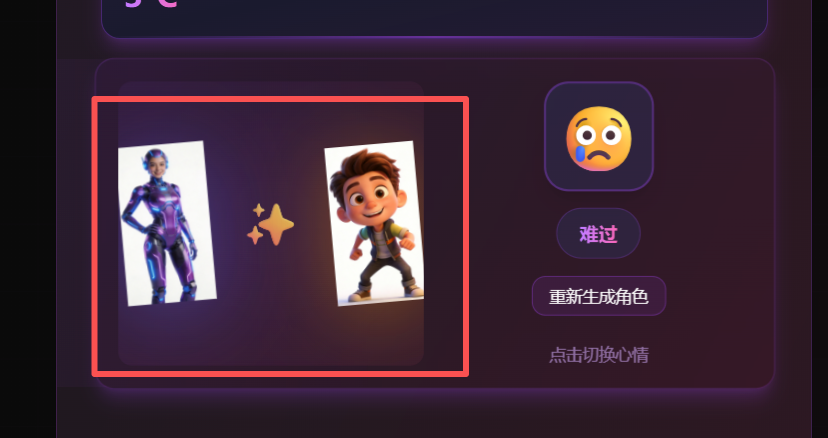
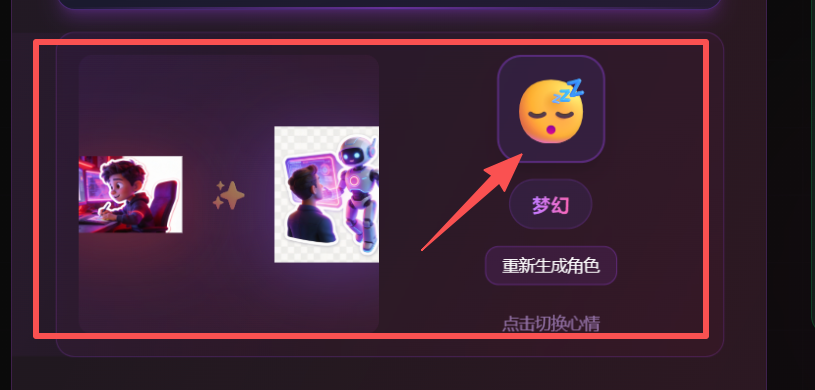
fix: 移除角色图像背景混合模式，改为无背景3D角色显示

diff --git a/src/app/api/generate-characters/route.ts b/src/app/api/generate-characters/route.ts
@@ -27,11 +27,11 @@ export async function POST(request: NextRequest) {
     const config = new Config();
     const client = new ImageGenerationClient(config);
 
-    // 生成AIGC创作者小男孩图像 - 办公室创作场景
-    const boyPrompt = `A cute Pixar 3D style boy character working at a modern creative studio desk with a computer, focused and passionate expression, creating digital art, red and purple neon color scheme, cyberpunk aesthetic, wearing modern casual clothes, creative workspace setup with glowing screens, high-quality 3D render, stylized sticker design, isolated on transparent background, 4K ultra HD resolution, PNG format`;
+    // 生成AIGC创作者小男孩图像 - 无背景3D角色
+    const boyPrompt = `A cute Pixar 3D style boy character, full body standing pose, wearing modern casual clothes, focused and passionate expression, creating digital art, red and purple neon color scheme, cyberpunk aesthetic, high-quality 3D render, clean transparent background, no background elements, PNG format, isolated character, 4K ultra HD resolution, cartoon sticker style`;
 
-    // 生成AI助手形象 - 陪伴创作的智能伙伴
-    const robotPrompt = `A friendly AI robot assistant character in Pixar 3D style, floating beside the creator, holographic interface, glowing purple and pink neon lights, sleek futuristic design, helpful and supportive pose, high-quality 3D render, stylized sticker design, isolated on transparent background, 4K ultra HD resolution, PNG format`;
+    // 生成AI助手形象 - 无背景3D角色
+    const robotPrompt = `A friendly AI robot assistant character in Pixar 3D style, full body floating pose, holographic interface, glowing purple and pink neon lights, sleek futuristic design, helpful and supportive pose, high-quality 3D render, clean transparent background, no background elements, PNG format, isolated character, 4K ultra HD resolution, cartoon sticker style`;
 
     console.log('开始生成创作者图像...');
     const boyResponse = await client.generate({

diff --git a/src/components/MoodInteraction.tsx b/src/components/MoodInteraction.tsx
@@ -324,13 +324,13 @@ export function MoodInteraction() {
             className="relative w-28 h-36 flex-shrink-0 z-10"
           >
             {characters?.creatorUrl ? (
-              <div className="relative w-full h-full">
+              <div className="relative w-full h-full flex items-end justify-center">
                 <img
                   src={characters.creatorUrl}
                   alt="Creator"
-                  className="w-full h-full object-contain mix-blend-multiply filter drop-shadow-2xl"
+                  className="w-full h-full object-contain"
                   style={{
-                    filter: 'drop-shadow(0 10px 30px rgba(239, 68, 68, 0.4))'
+                    filter: 'drop-shadow(0 8px 25px rgba(239, 68, 68, 0.5))',
                   }}
                 />
               </div>
@@ -379,13 +379,13 @@ export function MoodInteraction() {
             className="relative w-28 h-36 flex-shrink-0 z-10"
           >
             {characters?.assistantUrl ? (
-              <div className="relative w-full h-full">
+              <div className="relative w-full h-full flex items-end justify-center">
                 <img
                   src={characters.assistantUrl}
                   alt="AI Assistant"
-                  className="w-full h-full object-contain mix-blend-multiply filter drop-shadow-2xl"
+                  className="w-full h-full object-contain"
                   style={{
-                    filter: 'drop-shadow(0 10px 30px rgba(139, 92, 246, 0.4))'
+                    filter: 'drop-shadow(0 8px 25px rgba(139, 92, 246, 0.5))',
                   }}
                 />
               </div>
